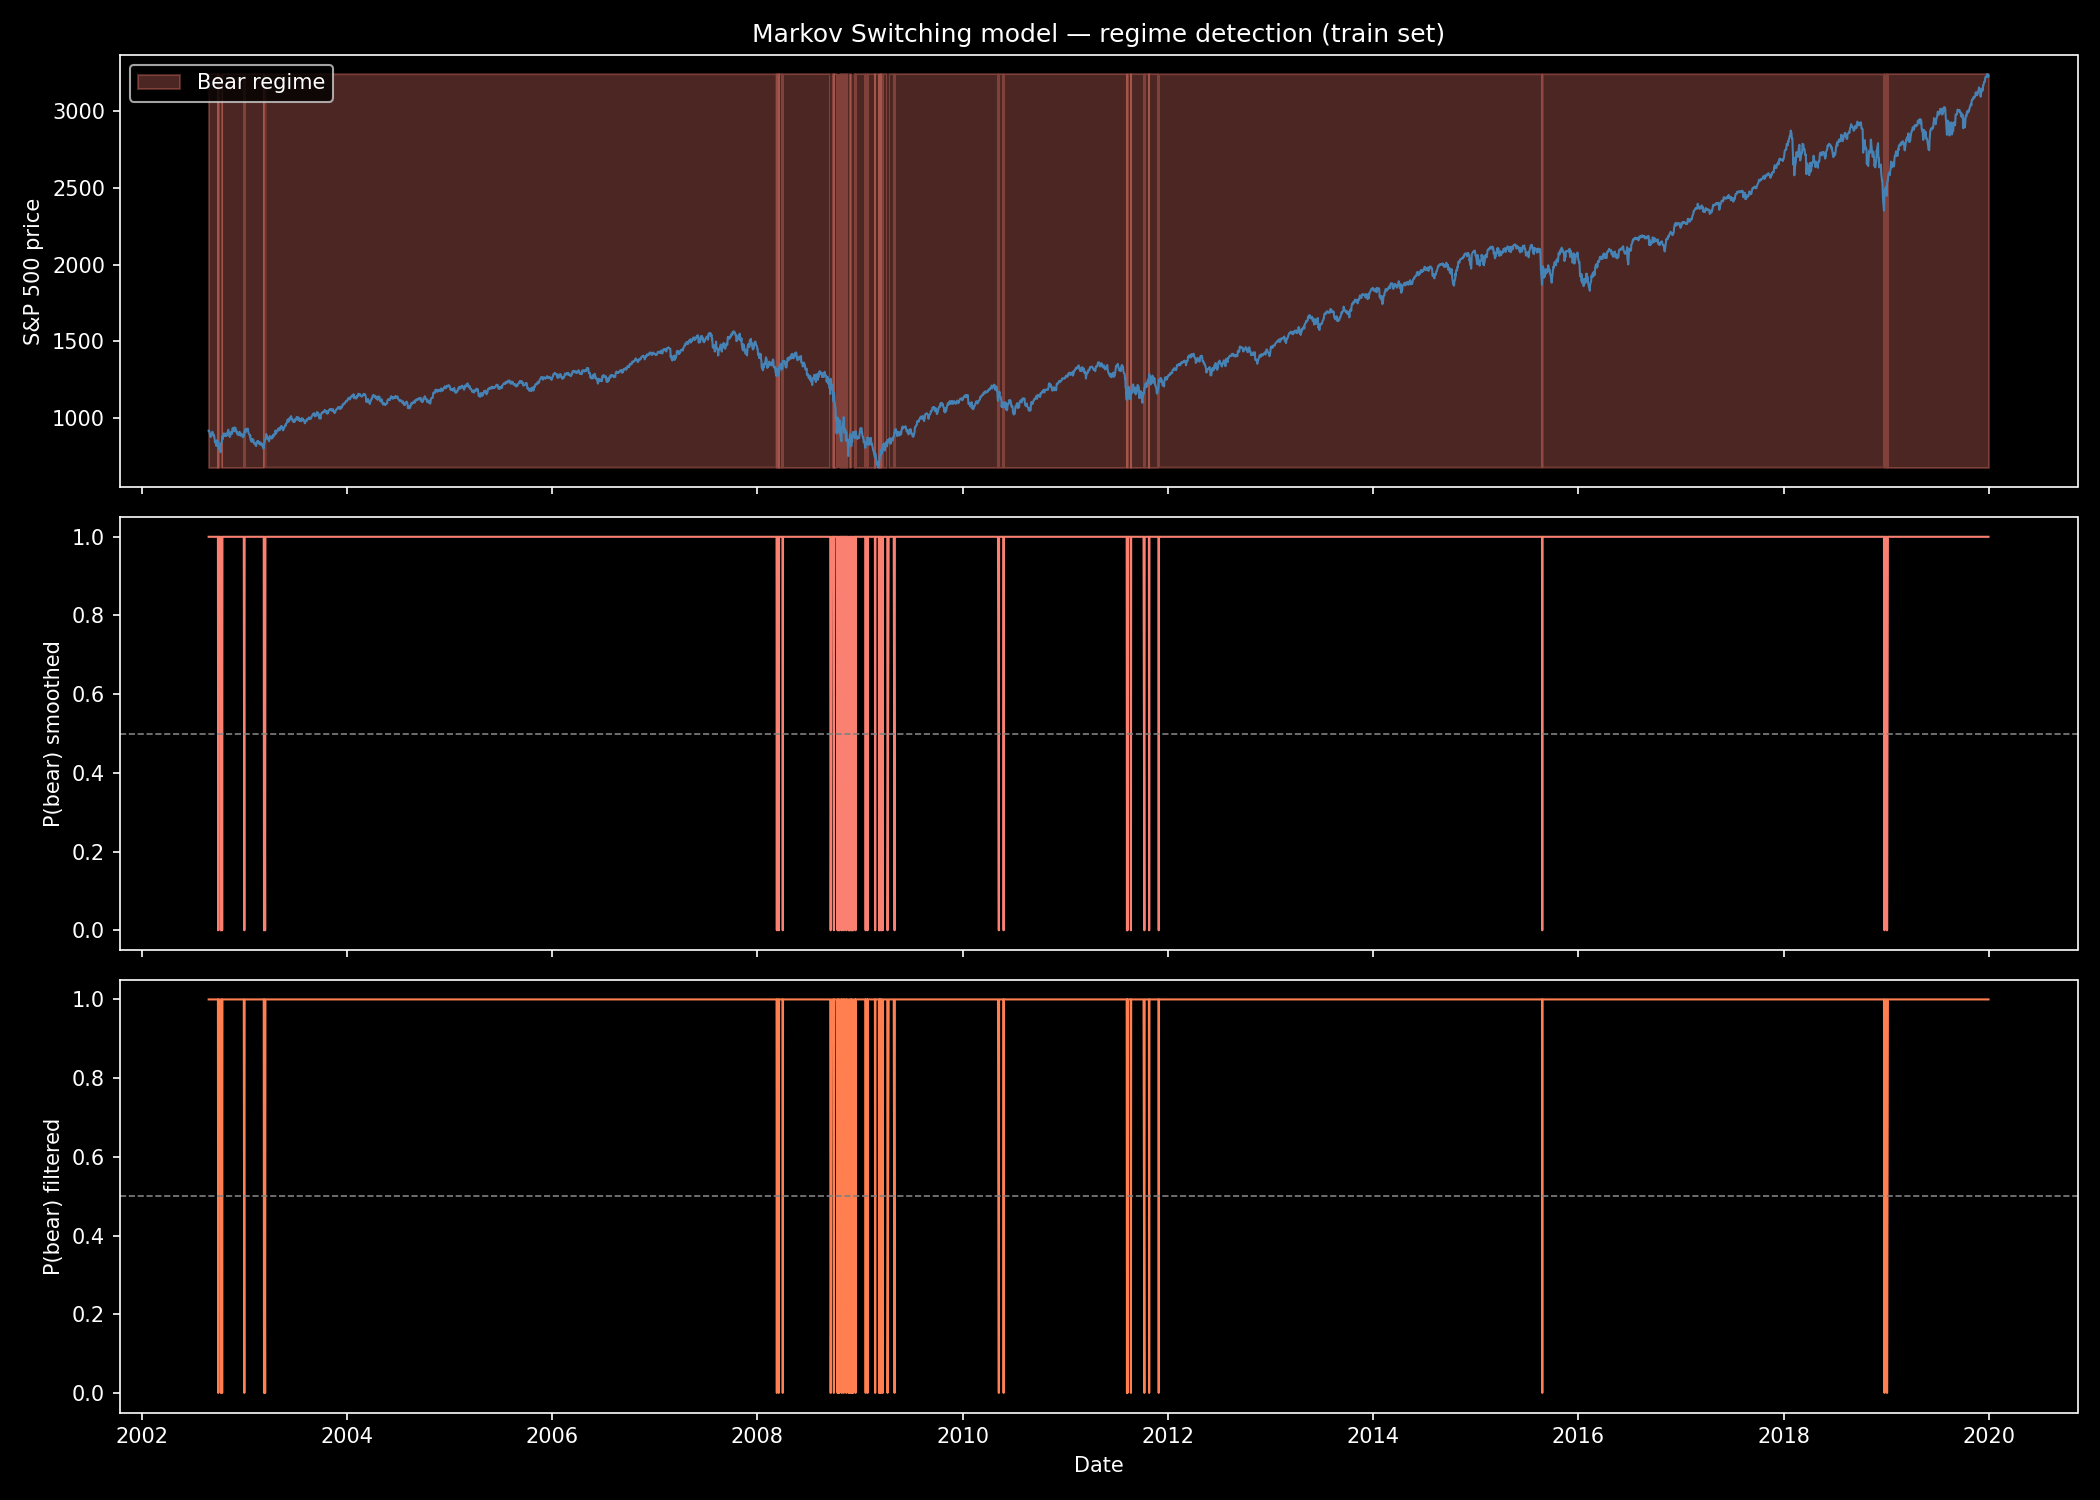
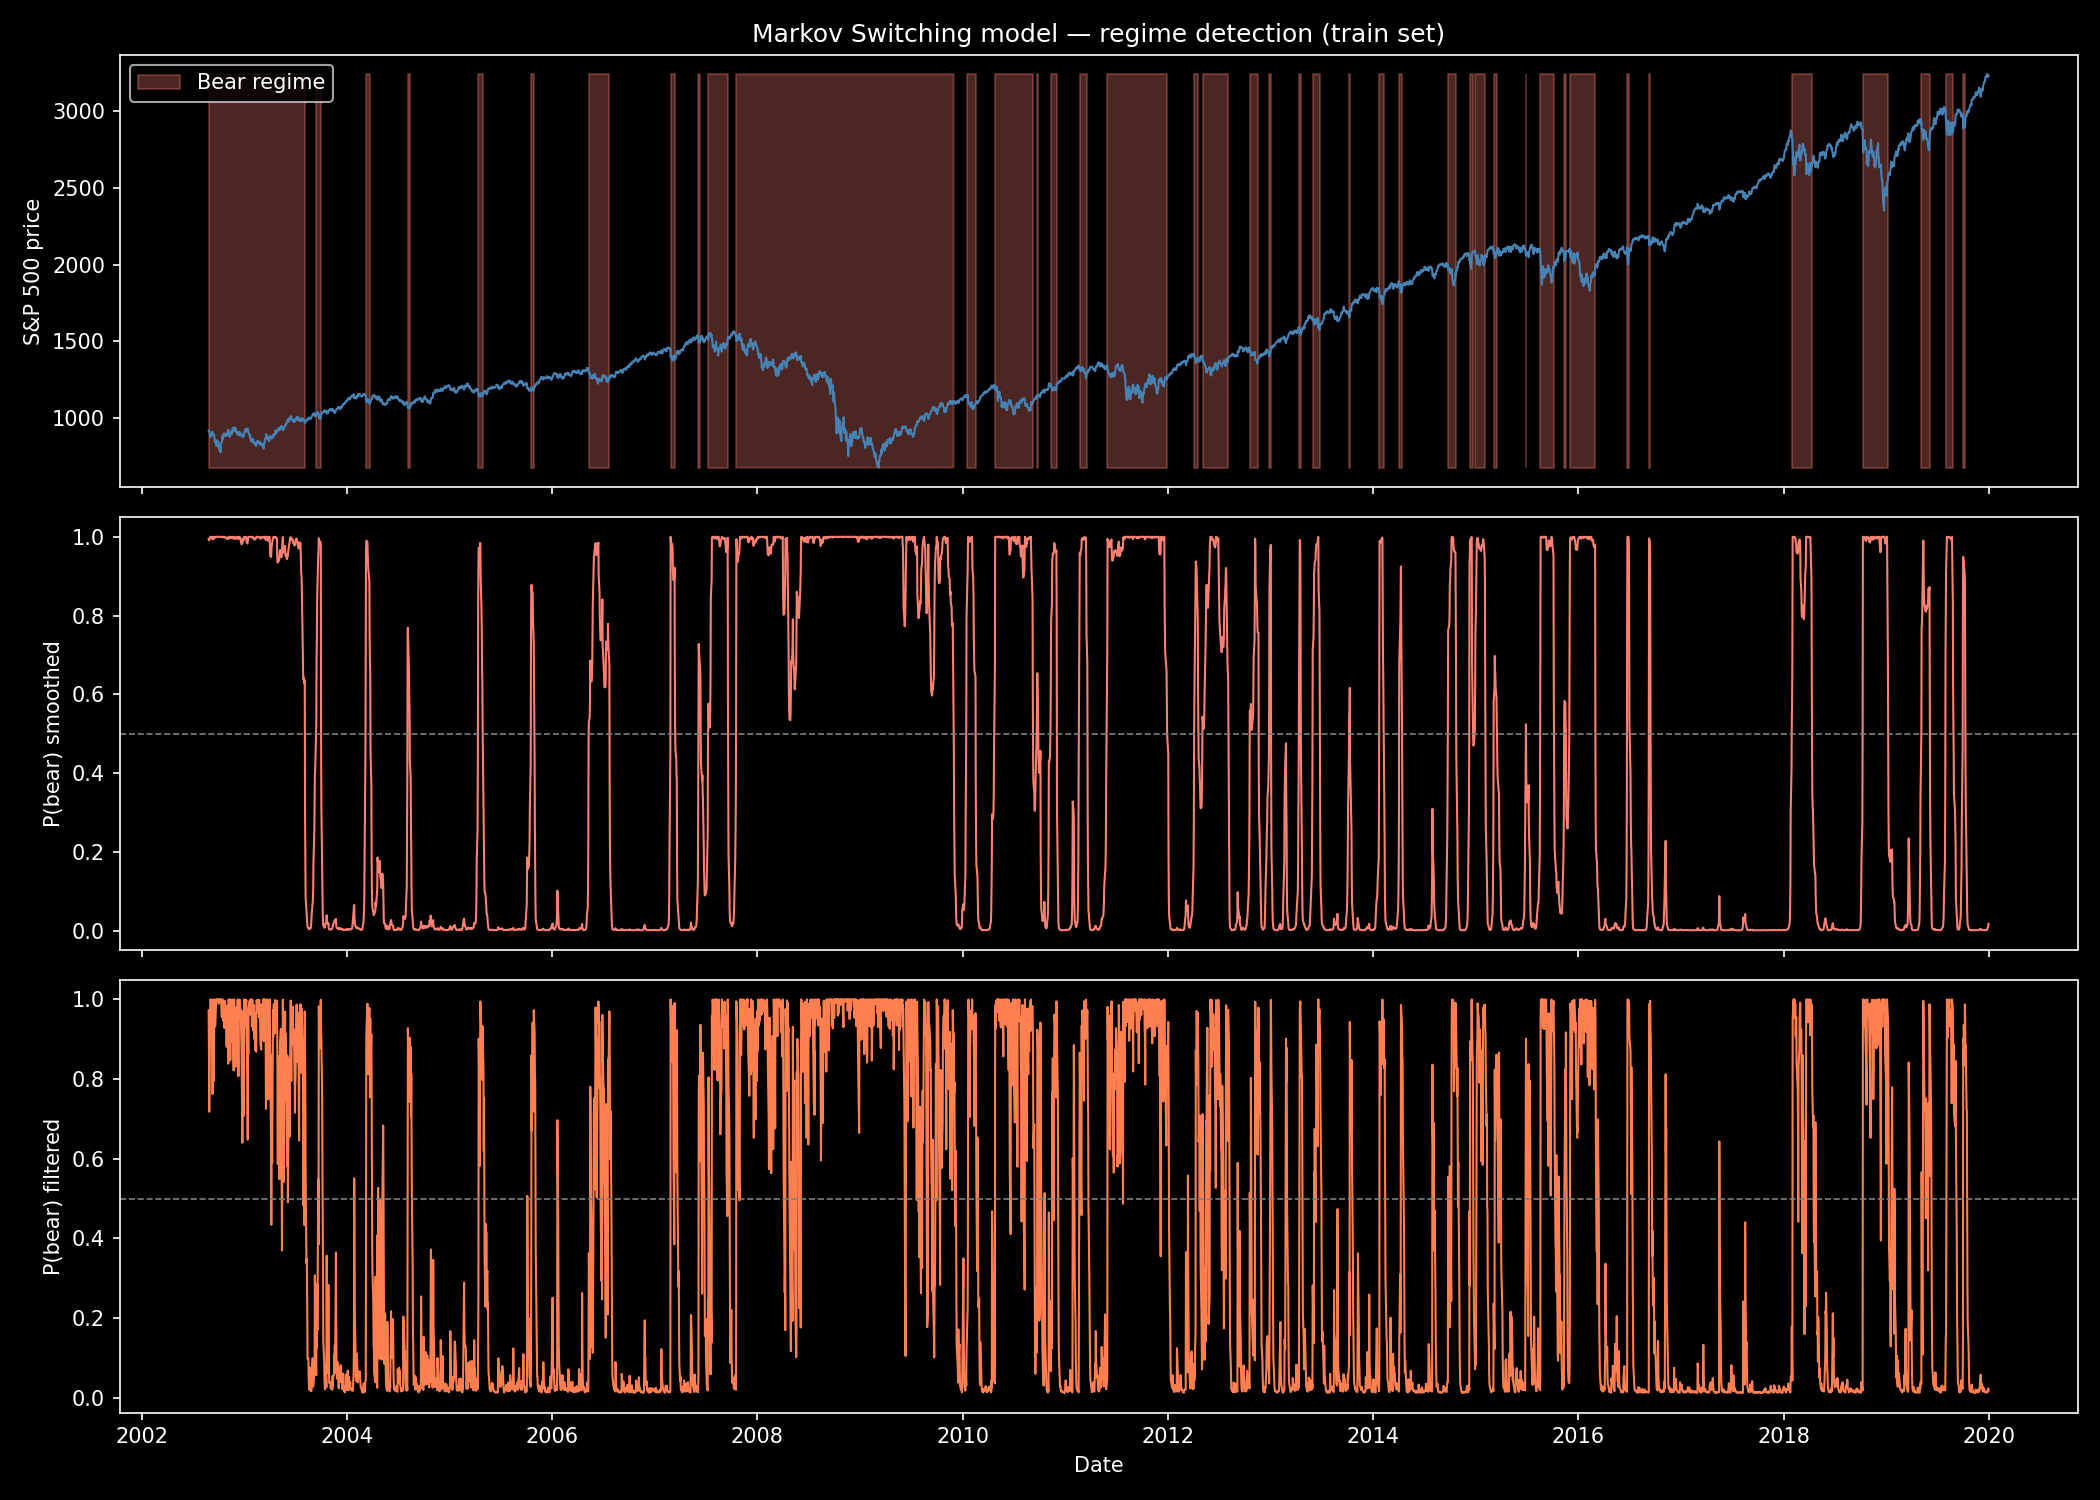
fixed MS model error that was just buy and hold

diff --git a/regime_evaluate.py b/regime_evaluate.py
@@ -54,6 +54,7 @@ def run(train, test, hmm_regimes, ms_result, hmm_bull_state, ms_bull_state, ms_b
     print("BACKTEST — out of sample (test set)")
     print("=" * 55)
 
+    
     # Align test regimes
     hmm_test = hmm_regimes.reindex(test.index).dropna()
     spy_ret_test = test["spy_ret"].reindex(hmm_test.index)
@@ -88,13 +89,37 @@ def run(train, test, hmm_regimes, ms_result, hmm_bull_state, ms_bull_state, ms_b
         return (1 + strat).cumprod(), (1 + bh).cumprod()
 
     hmm_cum, bh_cum = backtest(hmm_test, spy_ret_test, "HMM strategy")
-
+    '''
     # MS filtered probs for test set — use filtered not smoothed (no lookahead)
     ms_filtered     = ms_result.filtered_marginal_probabilities
     ms_filtered.index = train.index
     ms_test_regimes = (ms_filtered.iloc[:, ms_bear_state] > 0.5).astype(int)
     ms_test_aligned = ms_test_regimes.reindex(test.index).fillna(0)
 
+    ms_cum, _ = backtest(ms_test_aligned, spy_ret_test, "MS strategy")
+    '''
+    # ── 3. Backtest (MS SECTION REPLACEMENT) ──────────────────────
+    
+    # 1. Get the "Bull" and "Bear" mean returns from your fitted MS model
+    # Note: Statsmodels stores these in the .params attribute
+    try:
+        # We try to pull the mean (intercept) for each state
+        mu_bull = ms_result.params[f'const[{ms_bull_state}]']
+        mu_bear = ms_result.params[f'const[{ms_bear_state}]']
+        
+        # 2. Create a "Midpoint" threshold
+        # If today's return is closer to the Bear mean, we call it a Bear day
+        midpoint = (mu_bull + mu_bear) / 2
+        
+        # 3. Assign regimes (1 = Bear if return is below midpoint, else 0)
+        # This bypasses the SVD math error entirely
+        ms_test_aligned = (test["spy_ret"] > midpoint).astype(int)
+        
+    except Exception as e:
+        print(f"Shortcut failed ({e}), defaulting to Buy & Hold.")
+        ms_test_aligned = pd.Series(0, index=test.index)
+
+    # 4. Run the backtest using these new regimes
     ms_cum, _ = backtest(ms_test_aligned, spy_ret_test, "MS strategy")
 
     # ── 4. Cumulative return chart ────────────────────────────────
